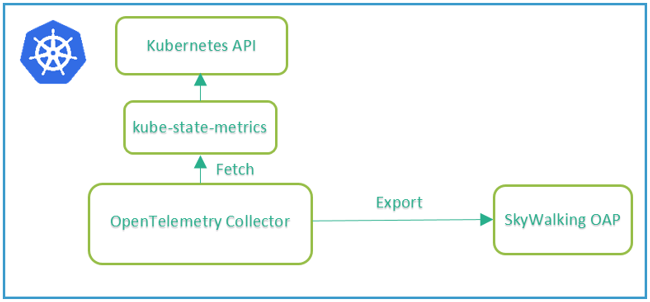
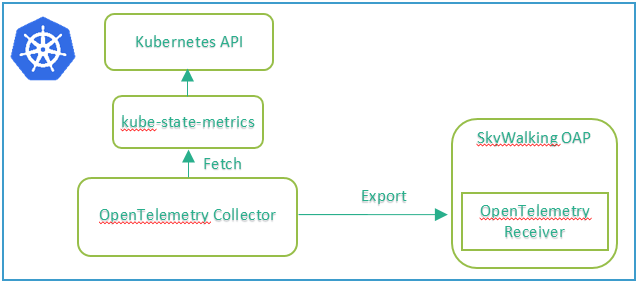
Update Blog “set-up-apache-skywalking-for-k8s-monitoring-in-hpe-greenlake-for-private-cloud-enterprise”

diff --git a/content/blog/set-up-apache-skywalking-for-k8s-monitoring-in-hpe-greenlake-for-private-cloud-enterprise.md b/content/blog/set-up-apache-skywalking-for-k8s-monitoring-in-hpe-greenlake-for-private-cloud-enterprise.md
@@ -5,10 +5,13 @@ date: 2022-12-28T20:19:50.005Z
 author: Guoping JIA
 authorimage: /img/guoping.png
 disable: false
+tags:
+  - hpe-greenlake, hpe-greenlake-for-private-cloud-enterprise, Kubernetes,
+    application performance monitoring, Apache SkyWalking
 ---
 ## Introduction
 
-[HPE GreenLake for Private Cloud Enterprise](https://www.hpe.com/us/en/greenlake/private-cloud-enterprise.html) delivers a modern private cloud to support your app workloads running in any combination across your edges, colocations, and data centers. It contains one HPE service, called [HPE GreenLake for Containers](https://www.hpe.com/us/en/greenlake/containers.html), which provides an enterprise-grade container management service using open source Kubernetes. It allows customers to create a Kubernetes cluster, view details about existing clusters, and launch the service console. 
+[HPE GreenLake for Private Cloud Enterprise](https://www.hpe.com/us/en/greenlake/private-cloud-enterprise.html) delivers a modern private cloud to support your app workloads running in any combination across your edges, colocations, and data centers. It contains one HPE service, called [HPE GreenLake for Private Cloud Enterprise: Containers](https://www.hpe.com/us/en/greenlake/containers.html), which provides an enterprise-grade container management service using open source Kubernetes. It allows customers to create a Kubernetes cluster, view details about existing clusters, and launch the service console. 
 
 Since Kubernetes is widely used for processing customer workloads, the non-availability of applications can adversely impact productivity, business continuity and user experience. To avoid this, enterprise must closely monitor the status of the objects managed and operations performed by Kubernetes, proactively capture abnormalities, and resolve them well before end-users notice. Though Kubernetes dramatically simplifies application deployment in containers and across clouds, it adds a new set of complexities for managing, securing and troubleshooting applications. Kubernetes monitoring is critical to managing application performance, service uptime and troubleshooting. Having a good application performance monitoring (APM) tool is becoming essential for Kubernetes monitoring. 
 
@@ -24,11 +27,11 @@ Apache SkyWalking is lightweight and scalable. It can be easily set up as a *sel
 
 ## Prerequisites
 
-Before you start, make sure you meet the following requirements:
+Before I start, make sure the following requirements are met:
 
-* A Kubernetes cluster needs to be created in HPE GreenLake for Private Cloud Enterprise. You need to download the *kubectl* binary, together with the *HPE kubectl plugin* and the *kubeconfig* file of the created cluster, from the launched service console. The downloaded *kubectl* binary and its plugin need to be set up in your environment. To simplify the setup process, you should export the environment variable `KUBECONFIG` and point it to the downloaded kubeconfig file. With these setups in place, you can access the Kubernetes cluster in the HPE GreenLake for Private Cloud Enterprise.
-* The [Helm CLI](https://helm.sh/docs/intro/install/) needs to be installed in your environment. This Helm CLI will be used for installing and setting up the Apache SkyWalking.
-* The [istioctl](https://istio.io/latest/docs/setup/getting-started/#download) needs to be installed as well in your environment. The istioctl client will be used for installing and set up `Istio`.
+* A Kubernetes cluster, being provisioned in HPE GreenLake for Private Cloud Enterprise;
+* The *kubectl*, together with the *HPE kubectl plugin* and the *kubeconfig* file of the Kubernetes cluster. You can download them from the launched service console in HPE GreenLake for Private Cloud Enterprise. To simplify the setup process, you can export the environment variable `KUBECONFIG` and point it to the downloaded *kubeconfig* file;
+* The *[Helm](https://helm.sh/docs/intro/install/)* CLI tool, version 3.8.1 or later. 
 
 With your user access setup, you should have access to permissions that can create and update the following resources in the Kubernetes cluster:
 
@@ -37,16 +40,7 @@ With your user access setup, you should have access to permissions that can crea
 
 ## Set up Apache SkyWalking for Kubernetes monitoring
 
-### Prerequisites
-
-Before I start, make sure the following requirements a
-re met:
-
-* A Kubernetes cluster, being provisioned in HPE GreenLake for Private Cloud Enterprise;
-* The *kubectl* CLI tool, version 1.23 or later, together with the *kubeconfig* files for accessing the Kubernetes cluster; 
-* The *[Helm](https://helm.sh/docs/intro/install/)* CLI tool, version 3.8.1 or later. 
-
-Apache SkyWalking leverages Kubernetes [kube-state-metrics](https://github.com/kubernetes/kube-state-metrics) service for collecting metrics data from Kubernetes cluster. It then leverages *OpenTelemetry* collector to transfer the Kubernetes metrics to *OpenTelemetry* receiver for Kubernetes monitoring. 
+Apache SkyWalking leverages Kubernetes [kube-state-metrics](https://github.com/kubernetes/kube-state-metrics) service for collecting metrics data from Kubernetes cluster. It then leverages *OpenTelemetry* collector to transfer the Kubernetes metrics to *OpenTelemetry* receiver in Apache SkyWalking Observability Analysis Platform (OAP) for Kubernetes monitoring. 
 
 ![](/img/otel-collector.png)
 
@@ -73,9 +67,9 @@ $ helm install skywalking skywalking –n skywalking \
 --set oap.env.SW_OTEL_RECEIVER_ENABLED_OC_RULES="k8s-cluster\,k8s-service\,k8s-node" 
 ```
 
-After running above commands, the Apache SkyWalking is installed to the Kubernetes cluster's namespace *skywalking*. It creates the *elasticsearch* as the `StatefulSet`, running a pod on each worker node. It runs the Apache SkyWalking Observability Analysis Platform (OAP) with replicas as 2 to provide high availability to the pods.
+After running above commands, the Apache SkyWalking is installed to the Kubernetes cluster's namespace *skywalking*. It creates the *elasticsearch* as the `StatefulSet` resource, running a pod on each worker node. It runs the Apache SkyWalking OAP with replicas as 2 to provide high availability.
 
-The last two options enable the *OpenTelemetry* receiver and define the metrics for Kubernetes service, service instance and endpoint. It requires Apache SkyWalking OAP to have access to Kubernetes API server to query the metadata. 
+The last two options, *oap.env.SW_OTEL_RECEIVER=default* & *oap.env.SW_OTEL_RECEIVER_ENABLED_OC_RULES="k8s-cluster,k8s-service,k8s-node"*, enable the *OpenTelemetry* receiver and define the metrics for Kubernetes service, service instance and endpoint. It requires Apache SkyWalking OAP to have access to Kubernetes API server to query the metadata.
 
 You can check the detailed Apache SkyWalking installation by typing the following *kubectl* command:
 
@@ -141,7 +135,7 @@ External Traffic Policy:  Cluster
 Events:                   <none>
 ```
 
-The SkyWalking UI can then be accessed in your browser by typing the address *gl2-caas.gl-hpe.local:10037*: 
+As shown in the _**Annotations**_ section of the service description above, the SkyWalking UI can then be accessed in your browser by typing the address *gl2-caas.gl-hpe.local:10037*: 
 
 ![](/img/sw-ui.png)
 
@@ -349,11 +343,11 @@ NAME                                                            DESIRED   CURREN
 replicaset.apps/otel-deployment-kubernetes-monitor-798cdd8486   1         1         1       96d
 ```
 
-After all setup steps are finished, the Kubernetes metrics will be showing up in Skywalking UI, under *Kubernetes* tab:
+After all setup steps are finished, the Kubernetes metrics will be showing up in SkyWalking UI, under *Kubernetes* tab:
 
 ![](/img/sw-k8s-clu.png)
 
-You can check the Kubernetes overview from Skywalking UI:
+You can check the Kubernetes overview from SkyWalking UI:
 
 ![](/img/sw-k8s-overview.png)
 
